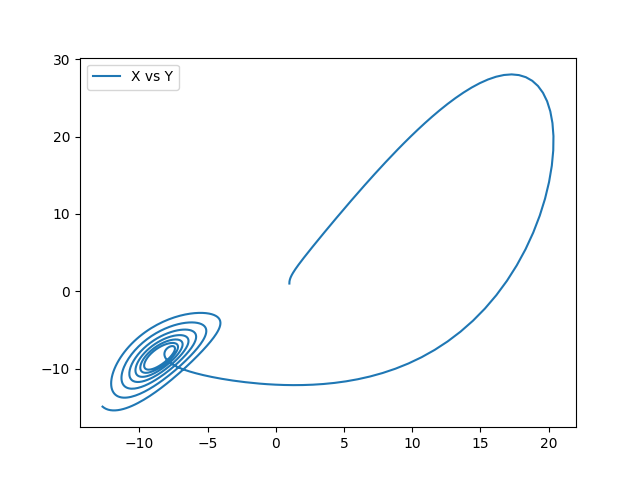
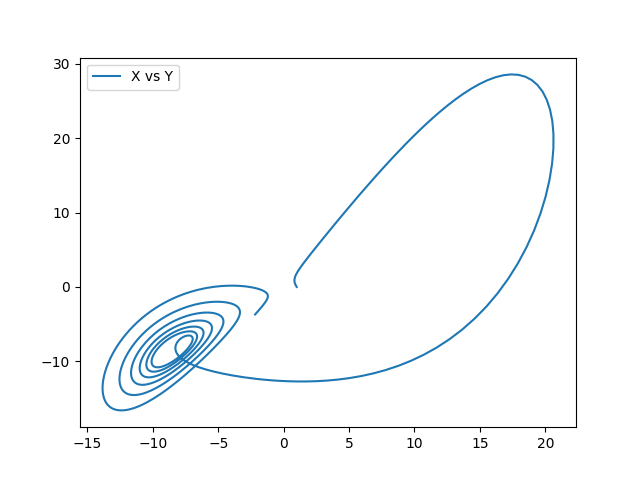
Se intento creer el metodo de fourier

diff --git a/ejercicio4.py b/ejercicio4.py
@@ -5,7 +5,9 @@
 # grafique la norma de la transformada en funcion de la frecuencia (figura 'fourier.png')
 # c. Lleve a cero los coeficientes de Fourier con frecuencias mayores que 10000 Hz y calcule 
 # la transformada inversa para graficar la nueva senal (figura 'filtro.png')
-
+import matplotlib
+matplotlib.use('Agg')
+import matplotlib.pyplot as plt
 import numpy as np
 
 
@@ -16,3 +18,14 @@ t = np.linspace( 0, (n-1)*dt, n)
 y = np.sin(2 * np.pi * f * t) + np.cos(2 * np.pi * f * t * t)
 noise = 1.4*(np.random.rand(n)+0.7)
 y  =  y + noise
+
+plt.figure()
+plt.plot(t, y)
+plt.xlabel("Tiempo")
+plt.ylabel("Senal")
+plt.savefig("senal.png")
+fourier = 0
+for i in range(len(y)):
+    fourier += y[i]*np.exp(-2*np.pi*i*(Im(1))*dt/n)
+
+frecuencias = np.fft.fftfreq(np.transpose(fourier))

diff --git a/ejercicio5.py b/ejercicio5.py
@@ -22,8 +22,8 @@ x = np.zeros(N)
 y = np.zeros(N)
 z = np.zeros(N)
 x[0] = 1.0
-y[0] = 1.0
-z[0] = 1.0
+y[0] = 0.0
+z[0] = 0.0
 for i in range(1,N):
     x[i] = (sigma*(y[i-1] - x[i-1]))*dt + x[i-1]
     y[i] = ((rho*x[i-1]) - y[i-1] -(x[i-1]*z[i-1]))*dt + y[i-1]
